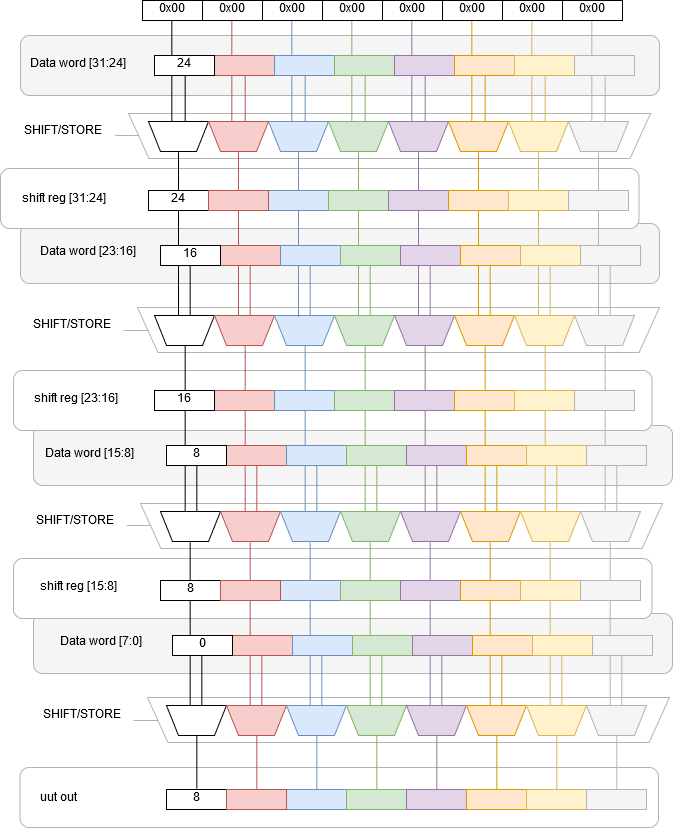
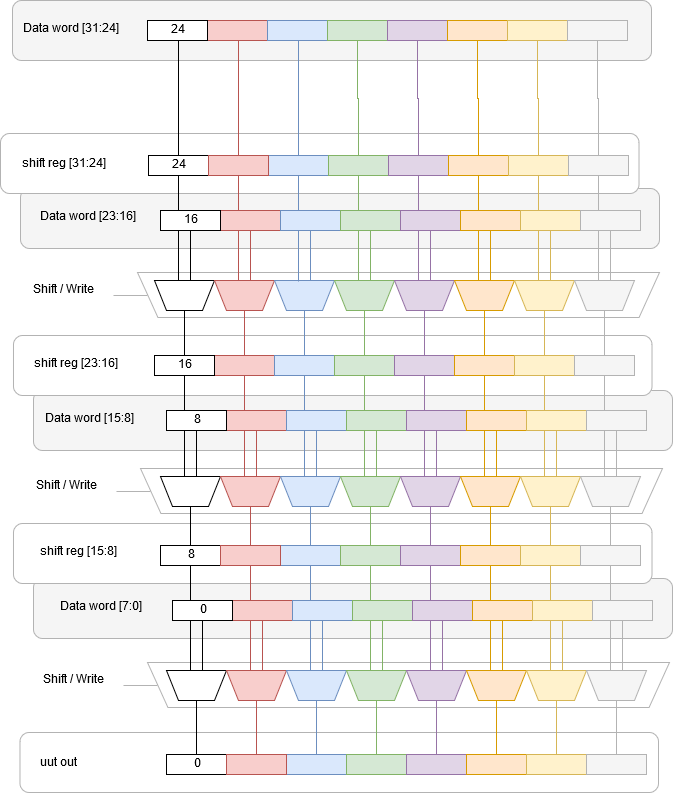
Changes from papeeria

diff --git a/5_test_bench.tex b/5_test_bench.tex
@@ -54,40 +54,76 @@ The protocol works in the master slave system connecting both of them using an A
 AXI4 protocol is designed for bidirectional communication, having separate write address, read address, write data, read data and write response channels in memory mapped modes and just data transfer channel in Stream mode. Every Xilinx IP has AXI4 support and there is an easy way of creating custom IPs supporting this protocol~\cite{report:AXI}.
 
 \subsection{Test Engine}\label{ssec:engine}
-The main core of the Test Bench is the Test Engine which feeds the test vectors to the UUT and gathers the response vectors. It consist of two parts:
+The main core of the Test Bench is the Test Engine which feeds the test vectors to the UUT and gathers the response vectors. It consists of two parts:
 \begin{itemize}
-    \item memory interface which calculates successive addresses for words in the memory bank and stores them in the input register for one $clk_{bram}$ cycle. The addresses get incremented by $inc = width_{bram}/8$ due to the bytewise addressing scheme. The memory interface also handles the write back of the response once per $clk_{bram}$ cycle from the output register. The number of pipeline stages for data read operation has to be taken into account. The number of pipeline stages determines the delay in clock cycles when the information, stored under the address given in the address register, actually gets to the input register of the test engine. The detailed timing is showed in \autoref{fig:timing}.
-    \item data downsize converter which reads input register and conducts parallel to parallel conversion where the input dimension is the $b=width_{bram}$ and the output dimension is the $u=width_{uut}$. The conversion process takes $k clk_{uut}$ cycles where $k$ is calculated as showed in~\autoref{eq:ratio}.
-    \begin{equation}\label{eq:ratio}
-    k = \frac{clk_{uut}}{clk_{bram}} = \frac{width_{bram}}{width_{uut}}
+    \item memory interface which calculates successive addresses for words in the memory bank and stores them in the input register for one $clk_{bram}$ cycle. The addresses get incremented by $inc = width_{bram}/8$ due to the bytewise addressing scheme. The memory interface also handles the write back of the response once per $clk_{bram}$ cycle from the output register. The number of pipeline stages for data read operation has to be taken into account. The number of pipeline stages determines the delay in clock cycles when the information, stored under the address given in the address register, actually gets to the input register of the test engine.
+    \item data downsize converter which reads input register and conducts parallel to parallel conversion where the input dimension is the $b=width_{bram}$ and the output dimension is the $u=width_{uut}$. The conversion process takes $k clk_{uut}$ cycles where $k$ is calculated as showed in~\autoref*{eq:ratio}.
+    \begin{equation}
+    k = \frac{clk_{uut}}{clk_{bram}} = \frac{width_{bram}}{width_{uut}}\label{eq:ratio}
     \end{equation}
-    The Test Engine successively shifts the $u$ size chunks of data through the design. With each $clk_{uut}$ cycle new data is placed on the input of UUT and new response gathered. The upsize converter recombines the $u$ size responses into $b$ size word with another parallel to parallel conversion. The test vector and response vector have always the same width $u$, although the number of UUT inputs and outputs may vary. It is necessary to connect the unused ports of the Test Engine to a known constant value.
+    The Test Engine (\autoref{fig:testeng}) successively shifts the $u$ size chunks of data through the design. With each $clk_{uut}$ cycle new data is placed on the input of UUT and new response gathered. The UUT is surrounded by flip-flops to guaranty, that the tested design is separated from the test engine logic.
+    \item the upsize converter recombines the $u$ size responses into $b$ size word with another parallel to parallel conversion. The conversion is done by the shift register with parallel output. The functionality of shift registers is described together with the downsize conversion The test vector and response vector have always the same width $u$, although the number of UUT inputs and outputs may vary. It is necessary to connect the unused ports of the Test Engine to a known constant value.
 \end{itemize}
-The downsize conversion can be accomplished using a big multiplexer, which $b$ number of inputs and $u$ number of outputs. The multiplexing can be also achieved with 8 k-to-1 MUXes, which is how the synthesis tool in Vivado handles this problem. The multiplexer solution is show in \autoref{fig:mux}.
+\begin{figure}[h]
+\centering
+\includegraphics[width=0.65\textwidth]{figures/Test_Engine_complex.png}
+\caption{Test engine architecture}
+\label{fig:testeng}
+\end{figure}
 
-Another way of conducting a donwsize conversion is by splitting it to many parallel to serial conversions. Such conversions are done using shift registers with parallel inputs but serial outputs.
+One of the ways to convert wide parallel inputs into series of narrower outputs can be accomplished using MUXes. With each tact the converter chooses different part of the longer word to be routed to the output. The solution is shown in \autoref{fig:mux}. Number of MUXes is always equal to the number of outputs of the converter, with each MUX having as many inputs as the relation $k$. Therefore the solution can be achieved using $u$ $k$-to-1 MUXes. 
 
 \begin{figure}[h]
 \centering
 \includegraphics[width=0.65\textwidth]{figures/MUX.png}
-\caption{MUX}
+\caption{32-to-8 bit converter using 8 4-to-1 MUXes}
 \label{fig:mux}
 \end{figure}
+
+Another way of conducting a downsize conversion is by splitting it to many parallel to serial conversions. Such conversion can be achieved using shift registers with parallel input and serial output. Shift register consists of more chained registers, so that the output of the previous register is connected to the input of the next one. With each clock cycle the content of each register is copied to the following one. If the last register is connected to the first one, a circular shift is created. The difference between serial and parallel input shift register lays in the way of feeding it with data. In the serial shift register the input is connected to the first register and travels through all of the registers until it gets propagated to the last one. In the parallel input shift register all of the registers are written at once and shifted out one by one. The number of following registers is called the $depth$ of the shift register. With each cycle new vector occurs at the output until all vectors are processed. Then the shift register is loaded with all bits at once and the shifting starts over. The parallel input of shift register requires multiplexing to indicate whether the shift or write operation is going to happen. The shift registers can also have parallel output, meaning that all registers are read at once. The number of 2-to-1 MUXes needed for parallel input shift register is equal to, the depth of the shift register minus one, multiplied by its width. In the proposed solution there is a need of $(b-u)$ 2-to-1 MUXes and extra $k-1$ number of registers to create the shift register. The advantage of this solution are small MUXes with smaller delays, but the hardware overhead is significant. The shift register solution is shown in \autoref{fig:shift}.
 
 \begin{figure}[h]
 \centering
 \includegraphics[width=0.65\textwidth]{figures/Shift_2.png}
-\caption{Shift register}
+\caption{32-to-8 bit converter using parallel input shift register and 24 2-to-1 MUXes}
 \label{fig:shift}
 \end{figure}
-%---!!!! see how it is implemented and repair!!!!!---%%%
-The UUT is surrounded by flip-flops to guaranty, that the tested design is separated from the test engine logic.
+
+To provide the desired conversion each method involves different number of MUXes, therefore different complexity and delay. Assuming that every multi-input MUX can be broken into cascade of 2-to-1 MUXes, the comparison between the two methods is possible. The breaking method is shown in \autoref{fig:cascade}.
+
+\begin{figure}[h]
+\centering
+\includegraphics[width=0.25\textwidth]{figures/cascade.png}
+\caption{Breaking of 8-to-1 MUX into several 2-to-1 MUXes}
+\label{fig:cascade}
+\end{figure}
+
+Let's consider an $i$-to-1 MUX. Looking from the right-hand side of the \autoref{fig:cascade} the first cascade has always only one MUX. The next one has 2, and the next one 4. There are always twice as many MUXes in the next step as there were in the previous one. These values are terms of the geometric progression with common ratio $q=2$. The number of 2-to-1 MUXes needed to split an $i$-to-1 MUX into cascades is the sum $S_n$ of all $n$ terms of the progression starting with $a_1=1$ and ending with $a_n=\frac{i}{2}$. The \autoref*{eq:nth} can be used to calculate the number of terms and the \autoref*{eq:sum} the sum of the progression. After rearranging the terms in \autoref*{eq:nth} for $n$ and substituting it with given values, the \autoref*{eq:nthres} shows the number of terms in the progression and therefore the number of cascades of MUXes.
+\begin{subequations}
+\begin{align}
+    a_n&=a_1\cdot q^{n-1}\label{eq:nth}\\
+    \frac{a_n}{a_1} &=  q^{n-1}\\
+    n &= \log_q \frac{a_n}{a_1}+1\\
+    n &= \log_2 i\label{eq:nthres}
+\end{align}
+\end{subequations}
+Using the \autoref*{eq:sum} the sum of the progression and therefore the sum of all MUXes is calculated in \autoref*{eq:sumres}.
+\begin{subequations}
+\begin{align}
+    S_n&=a_1\cdot\frac{1-q^{n}}{1-q}\label{eq:sum}\\
+    S_n&=\frac{1-2^{\log_2 i}}{1-2}\\
+    S_n&=i-1\label{eq:sumres}
+\end{align}
+\end{subequations}
+
+To compare both converting solutions, the one with multi-input MUXes has to be broken into cascades of 2-to-1 MUXes. There were $u$ $k$-to-1 MUXes needed in the first solution. Using the \autoref*{eq:sumres} the number of 2-to-1 MUXes needed for this solution is $u(k-1)$. The second solution required $(b-u)$ MUXes, which can be calculated using \autoref*{eq:ratio} as $(uk-u)=u(k-1)$. The number of 2-to-1 MUXes in both solutions is the same, therefore the solution without shift registers is better, because of smaller hardware overhead and will be used in the test bench.
+
 \subsection{Data buffering}
 Since the test has to be conducted with working frequency of the design, the data fed to the test bench has to be buffered. Working with the native AXI frequency of 200 MHz and providing the clock signal as one of the data bits would result in the maximum test frequency being 100Mhz. Buffering limits the amount of data processed during one test run. After all data have been processed, the execution stops and doesn't restart until new data has been written to the memory. For the buffering, the internal Block RAMs have been used. Since they have dual port access, they fit perfectly for the scenario. The dual port capability of a memory implementation means concurrent access to the memory bank from two independent sources. They can be even clocked with two different clocks if necessary. The conflicts, when accessing the IP over AXI4, are handled by the interconnect which schedules the write and read access after each other. In the true dual port configuration, whithout the AXI4 protocol, the conflict management can be configured, but conflicts are advised to be avoided~\cite{report:BRAM}.
 
 The BRAMs in the test bench are configured to be true dual ports. One port connected to AXI Bus and another port to the Test Engine. Conflicts must never occur because of the state machine implemented. The memory is never accessed by PL and PS simultaneously. The state machine is shown in the \autoref{fig:PSschedule}. There are two instances of the BRAMs, one to supply the stimuli to the Test Engine, another to store responses. The input BRAM is filled with data. Then the ENA signal starts the test procedure, resulting in: valid responses stored in output BRAM and RDY signal, to indicate the end of the test procedure. The lack of simultaneous accesses from PL and PS allows the use of only one BRAM, connecting one port as the input to the Test Engine and another port as its output. After the test routine ends, it would be possible to switch the connection of one of the ports back to the AXI interface. This solution is more area efficient, but the presence of two BRAMS was determined by a possible extra feature of conducting successive runs with the same stimuli or chaining the output BRAM to be the input of another Test Engine. 
 
-The depth and width of the BRAMs may be adjusted to suit the testers needs and optimize BRAMs function. They have to be kept equal for both BRAMs at all times. The width of the memory is a very important parameter for frequency multiplication. The $clk_{bram}$ is different then the $clk_{uut}$ and their relation $k$ is strongly connected with the width of BRAM word and the width of the UUT interface showed in~\autoref{eq:ratio}. For example if the $width_{uut} = 8b$ and the desired test frequency set to $clk_{uut} = 300MHz$ and the BRAM configured to have $width_{bram} = 16b$ then it would have to be clocked with the frequency $clk_{bram} = 150MHz$ to satisfy data throughput. It usually makes sense to set the $width_{bram} > width_{uut}$ to access frequncies higher then $clk_{bram_{max}} = 400 MHz$. The detailed explanation of the origin of this relation can be found in \autoref{ssec:engine}.
+The depth and width of the BRAMs may be adjusted to suit the testers needs and optimize BRAMs function. They have to be kept equal for both BRAMs at all times. The width of the memory is a very important parameter for frequency multiplication. The $clk_{bram}$ is different then the $clk_{uut}$ and their relation $k$ is strongly connected with the width of BRAM word and the width of the UUT interface showed in~\autoref*{eq:ratio}. For example if the $width_{uut} = 8b$ and the desired test frequency set to $clk_{uut} = 300MHz$ and the BRAM configured to have $width_{bram} = 16b$ then it would have to be clocked with the frequency $clk_{bram} = 150MHz$ to satisfy data throughput. It usually makes sense to set the $width_{bram} > width_{uut}$ to access frequncies higher then $clk_{bram_{max}} = 400 MHz$. The detailed explanation of the origin of this relation can be found in \autoref{ssec:engine}.
 
 
 \section{Middleware}

diff --git a/0_Master_Thesis.tex b/0_Master_Thesis.tex
@@ -1,7 +1,7 @@
 \documentclass[]{myclass}
 \usepackage[cp1250]{inputenc}
 \usepackage[OT4]{fontenc}
-\usepackage{hyperref}
+
 \usepackage[table,xcdraw]{xcolor}
 \usepackage{multirow}
 \usepackage{subfig}
@@ -16,6 +16,9 @@
 \usepackage{comment}
 \usepackage{caption}
 \usepackage{indentfirst}
+\usepackage{amsmath} %subeq
+\usepackage{mathtools} %split eq
+
 \definecolor{mygreen}{rgb}{0,0.6,0}
 \lstset {
 basicstyle=\small,
@@ -31,7 +34,12 @@ linewidth=\textwidth
 \title{Hardware Test and fault diagnosis based on extended FEC functions  in wireless communication systems}
 \mysupervisor{Prof. Dr.-Ing. H. T. Vierhaus \and Ing. Petr Pfeifer, MSc, MBA, Ph.D.}
 \myyear{2018}
-
+\usepackage{hyperref}
+\hypersetup{
+    linkcolor={blue!70!black},
+    citecolor={blue!70!black},
+    urlcolor={blue!70!black}
+}
 \begin{document}
 \selectlanguage{english}
 \bibliographystyle{plplain}
@@ -50,11 +58,6 @@ linewidth=\textwidth
 \listoffigures  \cleardoublepage
 \listoftables   \cleardoublepage
 
-\hypersetup{
-    linkcolor={blue!70!black},
-    citecolor={blue!70!black},
-    urlcolor={blue!70!black}
-}
 \tableofcontents \cleardoublepage
 
 % Main matter **************************************
